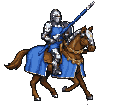
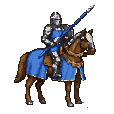
fix(art): ground mounted rest and hero actions
Use genuine planted rest instead of a gait crop. Reuse the white-horse hero's landed gait and idle at battle size, with a matching lance action and unchanged map stand.

Copilot-Session: 379f362c-03f1-437f-a3ee-fb0a8ab1f4c0

Changed region(s): [[0.0263, 0.0, 0.8421, 0.9545]]

diff --git a/src/render/mapPieces.ts b/src/render/mapPieces.ts
@@ -193,7 +193,7 @@ export type FigureAnimation = {
   stride?: number;
   footfalls?: readonly number[];
 };
-export const FIGURE_ANIMATIONS: Record<string, Partial<Record<import('./battleSprites').AnimName, FigureAnimation>>> = {"knights": {"stand": {"frames": [{"name": "knights-stand-0", "ms": 100}], "feet": {"battle": [54, 101], "map": [33, 60]}}, "idle": {"frames": [{"name": "knights-idle-0", "ms": 100}], "feet": {"battle": [54, 101], "map": [33, 60]}}, "move": {"frames": [{"name": "knights-move-0", "ms": 90}, {"name": "knights-move-1", "ms": 90}, {"name": "knights-move-2", "ms": 90}, {"name": "knights-move-3", "ms": 90}], "feet": {"battle": [54, 101], "map": [33, 60]}, "stride": 64, "footfalls": [0, 180]}, "melee": {"frames": [{"name": "knights-melee-0", "ms": 140}, {"name": "knights-melee-1", "ms": 100}, {"name": "knights-melee-2", "ms": 100}, {"name": "knights-melee-3", "ms": 200}], "feet": {"battle": [54, 101]}, "hit": 240}, "charge": {"frames": [{"name": "knights-charge-0", "ms": 80}, {"name": "knights-charge-1", "ms": 80}, {"name": "knights-charge-2", "ms": 80}, {"name": "knights-charge-3", "ms": 80}, {"name": "knights-charge-4", "ms": 100}, {"name": "knights-charge-5", "ms": 220}], "feet": {"battle": [54, 101]}, "hit": 320, "footfalls": [0, 160]}}, "heroWizard": {"move": {"frames": [{"name": "heroWizard-move-0", "ms": 100}, {"name": "heroWizard-move-1", "ms": 100}, {"name": "heroWizard-move-2", "ms": 100}, {"name": "heroWizard-move-3", "ms": 100}, {"name": "heroWizard-move-4", "ms": 100}, {"name": "heroWizard-move-5", "ms": 100}], "feet": {"map": [15, 49]}, "stride": 48, "footfalls": [100, 400]}, "idle": {"frames": [{"name": "heroWizard-idle-0", "ms": 1680}, {"name": "heroWizard-idle-1", "ms": 240}, {"name": "heroWizard-idle-2", "ms": 240}, {"name": "heroWizard-idle-3", "ms": 240}, {"name": "heroWizard-idle-4", "ms": 240}, {"name": "heroWizard-idle-5", "ms": 1200}], "feet": {"map": [15, 49]}}}, "heroRanger": {"move": {"frames": [{"name": "heroRanger-move-0", "ms": 100}, {"name": "heroRanger-move-1", "ms": 100}, {"name": "heroRanger-move-2", "ms": 100}, {"name": "heroRanger-move-3", "ms": 100}, {"name": "heroRanger-move-4", "ms": 100}, {"name": "heroRanger-move-5", "ms": 100}], "feet": {"map": [21, 49]}, "stride": 44, "footfalls": [100, 400]}, "idle": {"frames": [{"name": "heroRanger-idle-0", "ms": 1920}, {"name": "heroRanger-idle-1", "ms": 240}, {"name": "heroRanger-idle-2", "ms": 240}, {"name": "heroRanger-idle-3", "ms": 1200}], "feet": {"map": [16, 49]}}}, "heroCourtier": {"move": {"frames": [{"name": "heroCourtier-move-0", "ms": 100}, {"name": "heroCourtier-move-1", "ms": 100}, {"name": "heroCourtier-move-2", "ms": 100}, {"name": "heroCourtier-move-3", "ms": 100}, {"name": "heroCourtier-move-4", "ms": 100}, {"name": "heroCourtier-move-5", "ms": 100}], "feet": {"map": [15, 49]}, "stride": 42, "footfalls": [100, 400]}, "idle": {"frames": [{"name": "heroCourtier-idle-0", "ms": 1440}, {"name": "heroCourtier-idle-1", "ms": 240}, {"name": "heroCourtier-idle-2", "ms": 240}, {"name": "heroCourtier-idle-3", "ms": 1200}], "feet": {"map": [15, 49]}}}, "heroKnight": {"move": {"frames": [{"name": "heroKnight-move-0", "ms": 90}, {"name": "heroKnight-move-1", "ms": 90}, {"name": "heroKnight-move-2", "ms": 90}, {"name": "heroKnight-move-3", "ms": 90}], "feet": {"map": [33, 64]}, "stride": 64, "footfalls": [0, 180]}, "idle": {"frames": [{"name": "heroKnight-idle-0", "ms": 1800}, {"name": "heroKnight-idle-1", "ms": 240}, {"name": "heroKnight-idle-2", "ms": 240}, {"name": "heroKnight-idle-3", "ms": 1440}], "feet": {"map": [33, 65]}}}};
+export const FIGURE_ANIMATIONS: Record<string, Partial<Record<import('./battleSprites').AnimName, FigureAnimation>>> = {"knights": {"stand": {"frames": [{"name": "knights-stand-0", "ms": 100}], "feet": {"battle": [54, 105], "map": [33, 63]}}, "idle": {"frames": [{"name": "knights-idle-0", "ms": 1200}, {"name": "knights-idle-1", "ms": 200}, {"name": "knights-idle-2", "ms": 200}, {"name": "knights-idle-3", "ms": 1200}], "feet": {"battle": [54, 108], "map": [33, 64]}}, "move": {"frames": [{"name": "knights-move-0", "ms": 90}, {"name": "knights-move-1", "ms": 90}, {"name": "knights-move-2", "ms": 90}, {"name": "knights-move-3", "ms": 90}], "feet": {"battle": [54, 101], "map": [33, 60]}, "stride": 64, "footfalls": [0, 180]}, "melee": {"frames": [{"name": "knights-melee-0", "ms": 140}, {"name": "knights-melee-1", "ms": 100}, {"name": "knights-melee-2", "ms": 100}, {"name": "knights-melee-3", "ms": 200}], "feet": {"battle": [54, 101]}, "hit": 240}, "charge": {"frames": [{"name": "knights-charge-0", "ms": 80}, {"name": "knights-charge-1", "ms": 80}, {"name": "knights-charge-2", "ms": 80}, {"name": "knights-charge-3", "ms": 80}, {"name": "knights-charge-4", "ms": 100}, {"name": "knights-charge-5", "ms": 220}], "feet": {"battle": [54, 101]}, "hit": 320, "footfalls": [0, 160]}}, "heroWizard": {"move": {"frames": [{"name": "heroWizard-move-0", "ms": 100}, {"name": "heroWizard-move-1", "ms": 100}, {"name": "heroWizard-move-2", "ms": 100}, {"name": "heroWizard-move-3", "ms": 100}, {"name": "heroWizard-move-4", "ms": 100}, {"name": "heroWizard-move-5", "ms": 100}], "feet": {"map": [15, 49]}, "stride": 48, "footfalls": [100, 400]}, "idle": {"frames": [{"name": "heroWizard-idle-0", "ms": 1680}, {"name": "heroWizard-idle-1", "ms": 240}, {"name": "heroWizard-idle-2", "ms": 240}, {"name": "heroWizard-idle-3", "ms": 240}, {"name": "heroWizard-idle-4", "ms": 240}, {"name": "heroWizard-idle-5", "ms": 1200}], "feet": {"map": [15, 49]}}}, "heroRanger": {"move": {"frames": [{"name": "heroRanger-move-0", "ms": 100}, {"name": "heroRanger-move-1", "ms": 100}, {"name": "heroRanger-move-2", "ms": 100}, {"name": "heroRanger-move-3", "ms": 100}, {"name": "heroRanger-move-4", "ms": 100}, {"name": "heroRanger-move-5", "ms": 100}], "feet": {"map": [21, 49]}, "stride": 44, "footfalls": [100, 400]}, "idle": {"frames": [{"name": "heroRanger-idle-0", "ms": 1920}, {"name": "heroRanger-idle-1", "ms": 240}, {"name": "heroRanger-idle-2", "ms": 240}, {"name": "heroRanger-idle-3", "ms": 1200}], "feet": {"map": [16, 49]}}}, "heroCourtier": {"move": {"frames": [{"name": "heroCourtier-move-0", "ms": 100}, {"name": "heroCourtier-move-1", "ms": 100}, {"name": "heroCourtier-move-2", "ms": 100}, {"name": "heroCourtier-move-3", "ms": 100}, {"name": "heroCourtier-move-4", "ms": 100}, {"name": "heroCourtier-move-5", "ms": 100}], "feet": {"map": [15, 49]}, "stride": 42, "footfalls": [100, 400]}, "idle": {"frames": [{"name": "heroCourtier-idle-0", "ms": 1440}, {"name": "heroCourtier-idle-1", "ms": 240}, {"name": "heroCourtier-idle-2", "ms": 240}, {"name": "heroCourtier-idle-3", "ms": 1200}], "feet": {"map": [15, 49]}}}, "heroKnight": {"stand": {"frames": [{"name": "heroKnight-stand-0", "ms": 100}], "feet": {"battle": [50, 94]}}, "move": {"frames": [{"name": "heroKnight-move-0", "ms": 90}, {"name": "heroKnight-move-1", "ms": 90}, {"name": "heroKnight-move-2", "ms": 90}, {"name": "heroKnight-move-3", "ms": 90}], "feet": {"map": [33, 64], "battle": [50, 96]}, "stride": 64, "footfalls": [0, 180]}, "idle": {"frames": [{"name": "heroKnight-idle-0", "ms": 1800}, {"name": "heroKnight-idle-1", "ms": 240}, {"name": "heroKnight-idle-2", "ms": 240}, {"name": "heroKnight-idle-3", "ms": 1440}], "feet": {"map": [33, 65], "battle": [50, 98]}}, "melee": {"frames": [{"name": "heroKnight-melee-0", "ms": 140}, {"name": "heroKnight-melee-1", "ms": 100}, {"name": "heroKnight-melee-2", "ms": 100}, {"name": "heroKnight-melee-3", "ms": 200}], "feet": {"battle": [50, 98]}, "hit": 240}}};
 /** The payday feast's pieces (#191), in public/assets/feast/: Aldric as each background, a figure for each troop that has one, and the camp's things. */
 export const FEAST_PIECES = ["heroKnight", "heroWizard", "heroRanger", "heroCourtier", "knights", "archers", "peasants", "swordsmen", "crossbowmen", "wolves", "boars", "bears", "goblins", "trolls", "poachers", "bandits", "huntsmen", "fire", "spit", "tent", "horseWhite", "horseBrown", "barrel", "chest", "food", "banner"] as const;
 export type FeastPieceName = (typeof FEAST_PIECES)[number];

diff --git a/test/knights.test.ts b/test/knights.test.ts
@@ -16,6 +16,25 @@ describe('the Knights painted gait and attacks', () => {
     expect(paintedAnimation('knights', 'battle', 'move')?.footfalls).toEqual([0, 180]);
   });
 
+  it('settles on a distinct grounded rest rather than freezing the first running pose', () => {
+    const rest = troopFigure('knights', 'blue', 1, { anim: 'stand', ms: 0 }, 'battle');
+    const moving = troopFigure('knights', 'blue', 1, { anim: 'move', ms: 0 }, 'battle');
+    expect(rest.sprite.data.join(',')).not.toBe(moving.sprite.data.join(','));
+    const idle = paintedAnimation('knights', 'battle', 'idle');
+    expect(idle?.frames).toHaveLength(4);
+    expect(new Set(idle?.frames.map((frame) => frame.sprite.data.join(','))).size).toBe(4);
+  });
+
+  it('gives Aldric real white-horse battle gait, rest, idle and lance strike frames', () => {
+    for (const anim of ['move', 'idle', 'melee'] as const) {
+      const sequence = paintedAnimation('heroKnight', 'battle', anim);
+      expect(sequence?.frames, `Aldric needs a battle ${anim} sequence`).toHaveLength(4);
+      expect(new Set(sequence?.frames.map((frame) => frame.sprite.data.join(','))).size).toBe(4);
+    }
+    expect(paintedAnimation('heroKnight', 'battle', 'stand')?.frames[0].name).toBe('heroKnight-stand-0');
+    expect(hitTime('heroKnight', 'melee')).toBe(240);
+  });
+
   it('puts the short lance thrust on its contact pose and holds the recovery', () => {
     const frames = [0, 140, 240, 340].map((ms) => troopFigure('knights', 'blue', 1, { anim: 'melee', ms }, 'battle'));
     expect(new Set(frames.map((frame) => frame.sprite.data.join(','))).size).toBe(4);
@@ -40,13 +59,13 @@ describe('the Knights painted gait and attacks', () => {
     expect(troopFigure('knights', 'blue', 1, { anim: 'charge', ms: 2000 }, 'battle').sprite).toBe(frames[5].sprite);
   });
 
-  it('keeps the same anchor through standing, movement and weapon changes', () => {
-    const frames = (['stand', 'idle', 'move', 'melee', 'charge'] as const).map((anim) => troopFigure('knights', 'blue', 1, { anim, ms: 0 }, 'battle'));
-    expect(new Set(frames.map((frame) => `${frame.x},${frame.y}`)).size).toBe(1);
-    const right = frames[2];
-    const left = troopFigure('knights', 'red', -1, { anim: 'move', ms: 0 }, 'battle');
-    expect(left.x + left.sprite.width).toBe(-right.x);
-    expect(left.y).toBe(right.y);
+  it('mirrors every mounted pose about its own grounded foot anchor', () => {
+    for (const anim of ['stand', 'idle', 'move', 'melee', 'charge'] as const) {
+      const right = troopFigure('knights', 'blue', 1, { anim, ms: 0 }, 'battle');
+      const left = troopFigure('knights', 'red', -1, { anim, ms: 0 }, 'battle');
+      expect(left.x + left.sprite.width).toBe(-right.x);
+      expect(left.y).toBe(right.y);
+    }
   });
 
   it('keeps the registered battle stand when a new idle exists only at map size', async () => {

diff --git a/scripts/mapart.py b/scripts/mapart.py
@@ -145,7 +145,7 @@ def grove_kind(px):
 # The troops and Aldric (#178): each one's box on its sheet, and how tall he stands in battle, from
 # his feet to the top of his head (a person about 65 px; on the map three fifths of that, Aldric two thirds).
 FIGURES = {
-    'peasants': ('units-a', (19, 19, 78, 124), 66), 'archers': ('units-a', (99, 20, 157, 125), 64), 'knights': ('knights-gait', (0, 0, 133, 128), 100),
+    'peasants': ('units-a', (19, 19, 78, 124), 66), 'archers': ('units-a', (99, 20, 157, 125), 64), 'knights': ('knights-rest', (0, 0, 133, 128), 104),
     'swordsmen': ('units-a', (10, 128, 79, 252), 68), 'crossbowmen': ('units-a', (95, 140, 171, 252), 68), 'wolves': ('units-a', (167, 171, 249, 252), 44),
     'baron': ('units-b', (10, 9, 83, 124), 82), 'goblins': ('units-b', (96, 42, 174, 124), 48), 'trolls': ('units-b', (178, 7, 244, 124), 86),
     'witch': ('units-b', (22, 145, 84, 249), 70), 'bramble': ('units-b', (97, 131, 167, 249), 82), 'poachers': ('units-b', (177, 147, 250, 250), 64),
@@ -167,12 +167,17 @@ TROOPS_OUT = os.path.join(ROOT, 'public/assets/troops')
 FIGURE_ANIMATIONS = {
     'knights': {
         'stand': {
-            'sheet': 'knights-gait', 'scale': 0.86, 'sizes': ['battle', 'map'],
-            'frames': [((0, 0, 133, 128), (63, 117), 100)],
+            'sheet': 'knights-rest', 'scale': 0.86, 'sizes': ['battle', 'map'],
+            'frames': [((0, 0, 133, 128), (63, 122), 100)],
         },
         'idle': {
-            'sheet': 'knights-gait', 'scale': 0.86, 'sizes': ['battle', 'map'],
-            'frames': [((0, 0, 133, 128), (63, 117), 100)],
+            'sheet': 'knights-rest', 'scale': 0.86, 'sizes': ['battle', 'map'],
+            'frames': [
+                ((0, 0, 133, 128), (63, 122), 1200),
+                ((128, 0, 256, 128), (191, 121), 200),
+                ((0, 128, 133, 256), (63, 252), 200),
+                ((128, 128, 256, 256), (191, 253), 1200),
+            ],
         },
         'move': {
             'sheet': 'knights-gait', 'scale': 0.86, 'sizes': ['battle', 'map'],
@@ -279,8 +284,12 @@ FIGURE_ANIMATIONS = {
         },
     },
     'heroKnight': {
+        'stand': {
+            'sheet': 'map-hero-knight-idle-edit', 'scale': 0.78, 'sizes': ['battle'],
+            'frames': [((0, 0, 118, 123), (64, 120), 100)],
+        },
         'move': {
-            'sheet': 'map-hero-knight-move', 'scale': 0.78, 'sizes': ['map'],
+            'sheet': 'map-hero-knight-move', 'scale': 0.78, 'sizes': ['map', 'battle'],
             'frames': [
                 ((0, 0, 118, 123), (64, 119), 90),
                 ((128, 0, 248, 123), (192, 119), 90),
@@ -290,13 +299,23 @@ FIGURE_ANIMATIONS = {
             'stride': 64, 'footfalls': [0, 180],
         },
         'idle': {
-            'sheet': 'map-hero-knight-idle-edit', 'scale': 0.78, 'sizes': ['map'],
+            'sheet': 'map-hero-knight-idle-edit', 'scale': 0.78, 'sizes': ['map', 'battle'],
             'frames': [
                 ((0, 0, 118, 123), (64, 120), 1800),
                 ((128, 0, 248, 123), (192, 120), 240),
                 ((0, 125, 120, 254), (64, 249), 240),
                 ((128, 125, 249, 254), (192, 250), 1440),
             ],
+        },
+        'melee': {
+            'sheet': 'hero-knight-lance-sequence', 'scale': 0.78, 'sizes': ['battle'],
+            'frames': [
+                ((0, 0, 170, 128), (64, 120), 140),
+                ((0, 128, 170, 256), (64, 248), 100),
+                ((0, 256, 170, 384), (64, 377), 100),
+                ((0, 384, 170, 512), (64, 509), 200),
+            ],
+            'hit': 240,
         },
     },
 }

diff --git a/public/assets/CREDITS.md b/public/assets/CREDITS.md
@@ -35,8 +35,12 @@ The Knights' gait, short lance thrusts and lance charge (#283) were painted with
 12 October 2026, with their existing chestnut horse, blue cloth and steel armour as references.
 `knights-gait.png`, `knights-lance-melee.png`, `knights-charge-edit.png` and `knights-charge.png`
 supply the selected poses. `knights-charge-sequence.png` packs the selected approach, contact
-and recovery cells without repainting them. All nine requests and inspected attempts are
-retained in `art/map/jobs/` and `art/map/sheets/`, with their actual spend of $1.62 and critiques
+and recovery cells without repainting them. The grounded neutral and gentle idle in `knights-rest.png`
+replace the first running crop previously used at rest. `hero-knight-lance.png` adds the mounted hero's
+matching white-horse lance action, packed without repainting into `hero-knight-lance-sequence.png`.
+His landed map gait and grounded idle are reused at battle size with the same body calibration.
+All eleven requests and inspected attempts are retained in `art/map/jobs/` and `art/map/sheets/`,
+with their actual spend of $1.98 and critiques
 in `art/map/knights-review.json`. `knights-lance-reference.png` is a crop of our own first charge
 sheet. The frames keep one body scale and explicit foot anchors, and use the same palette and licence.
 
